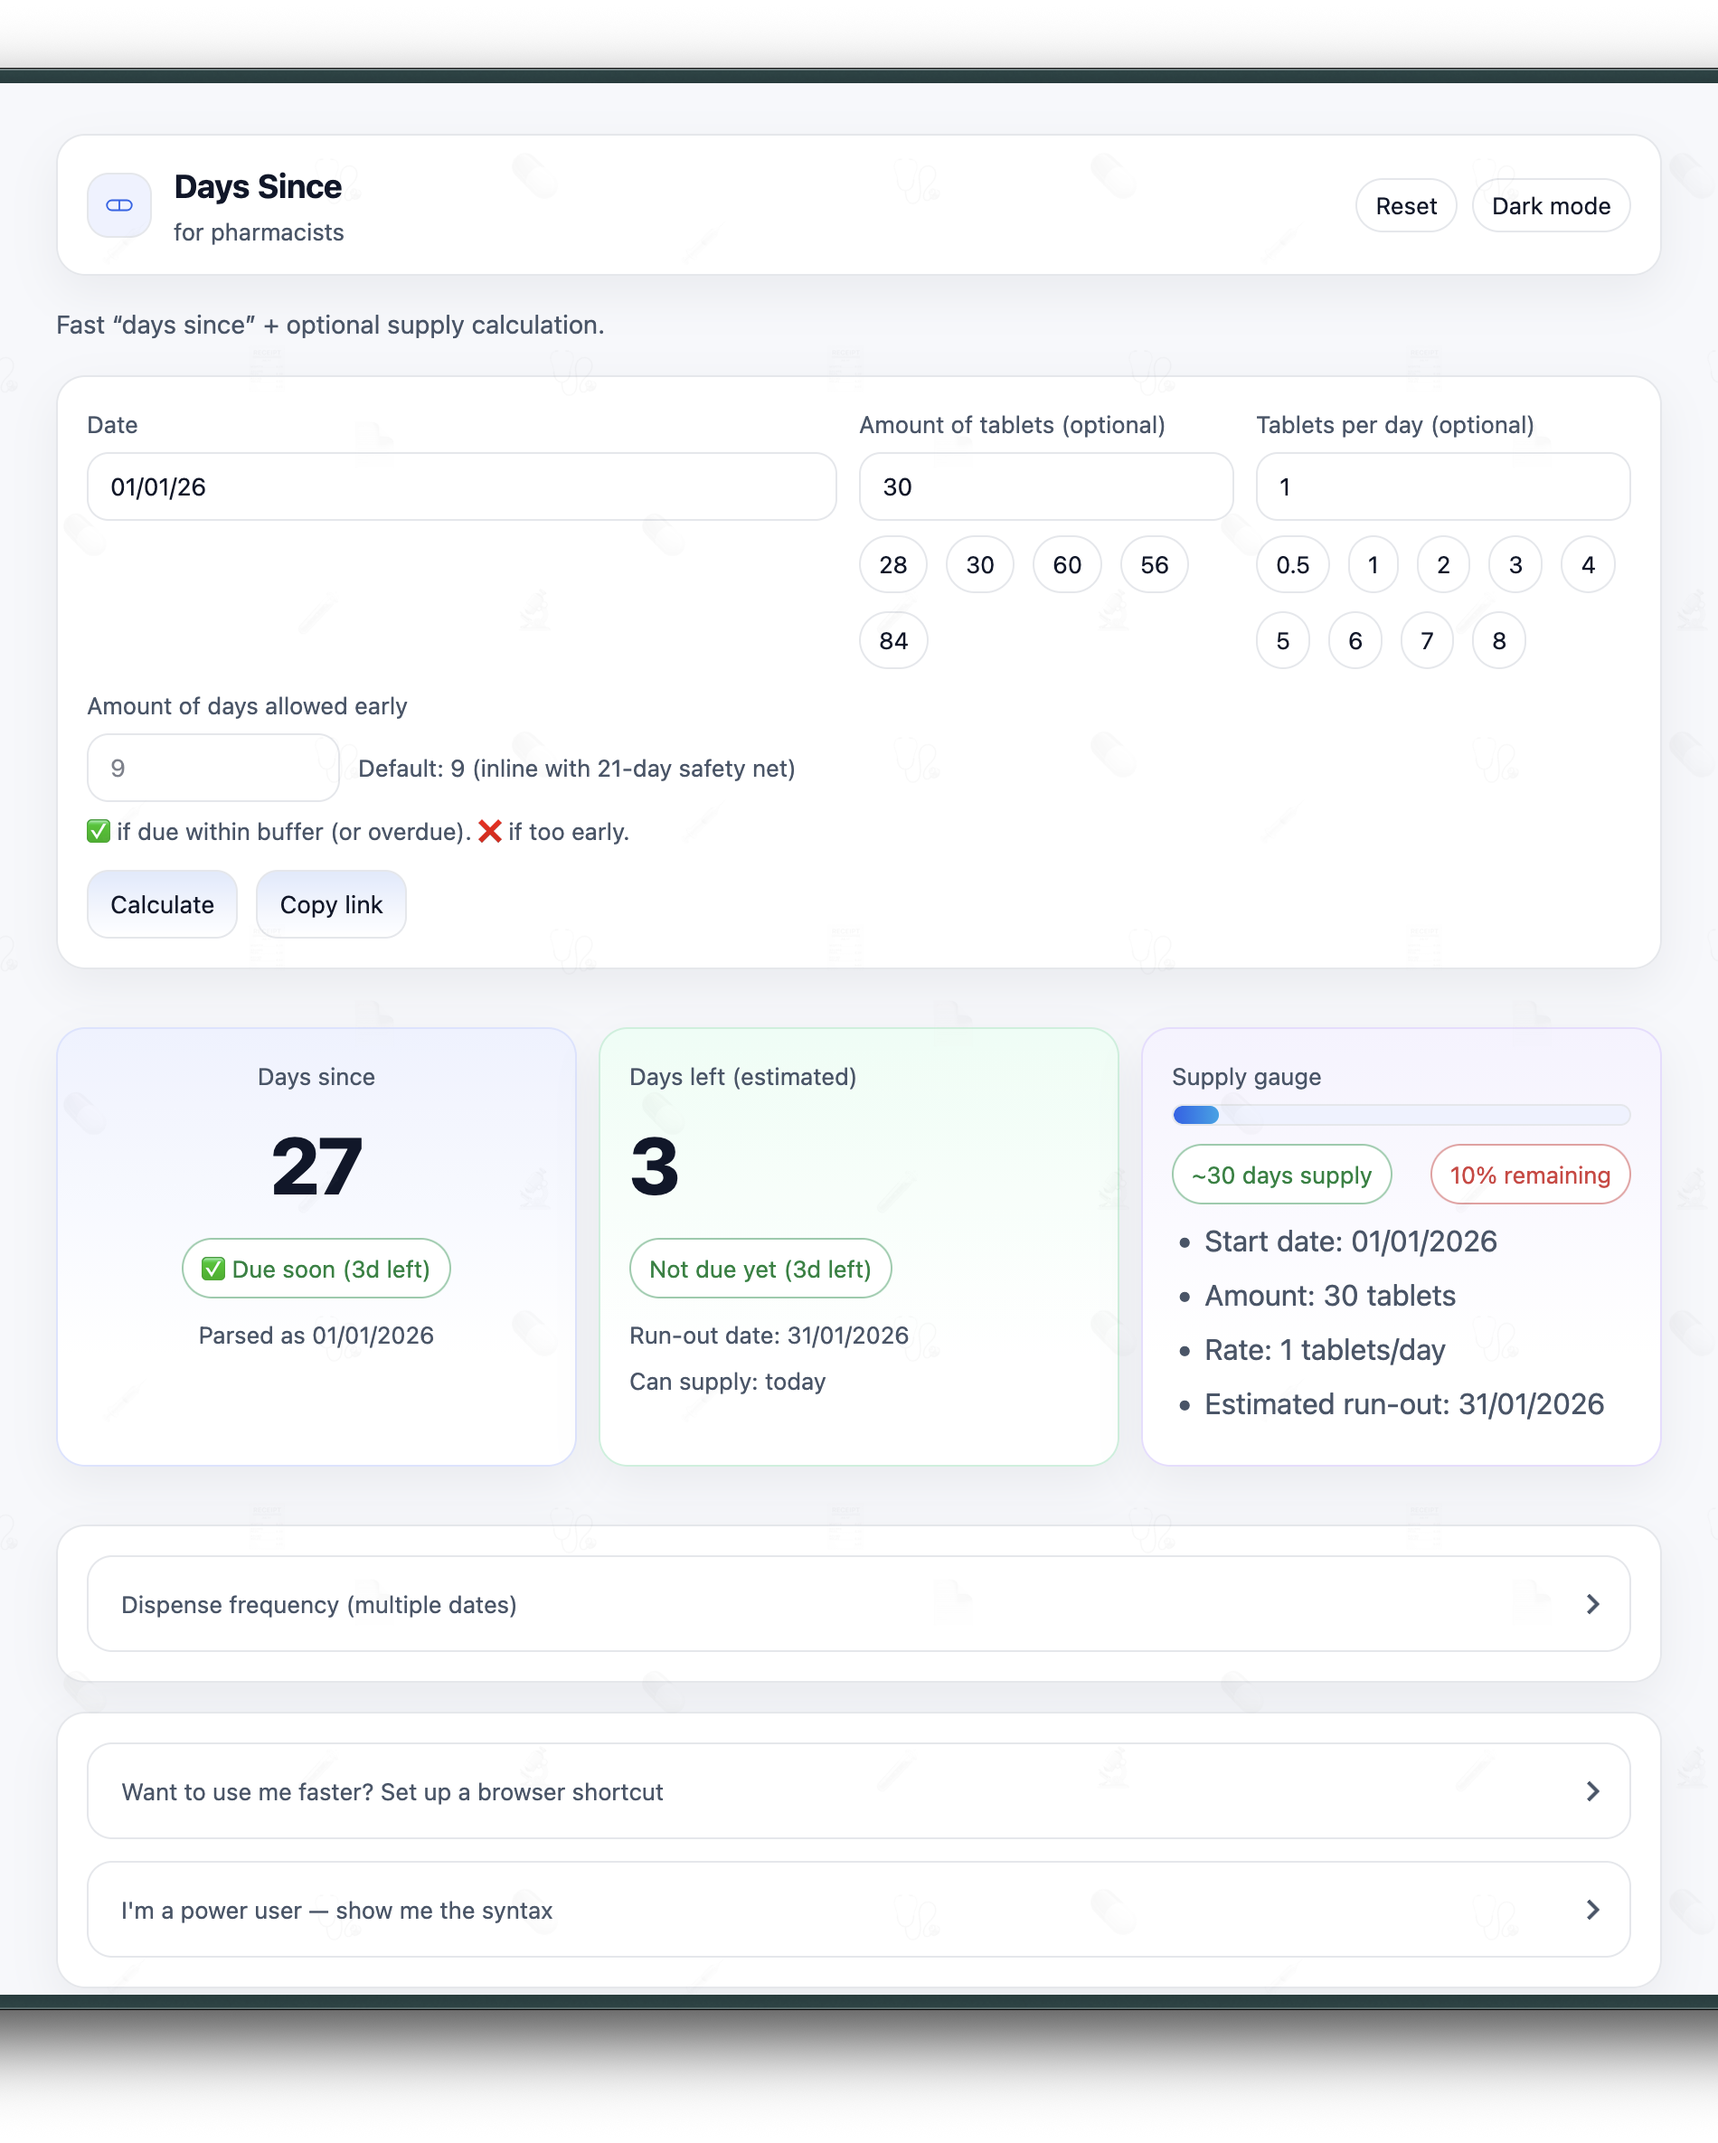
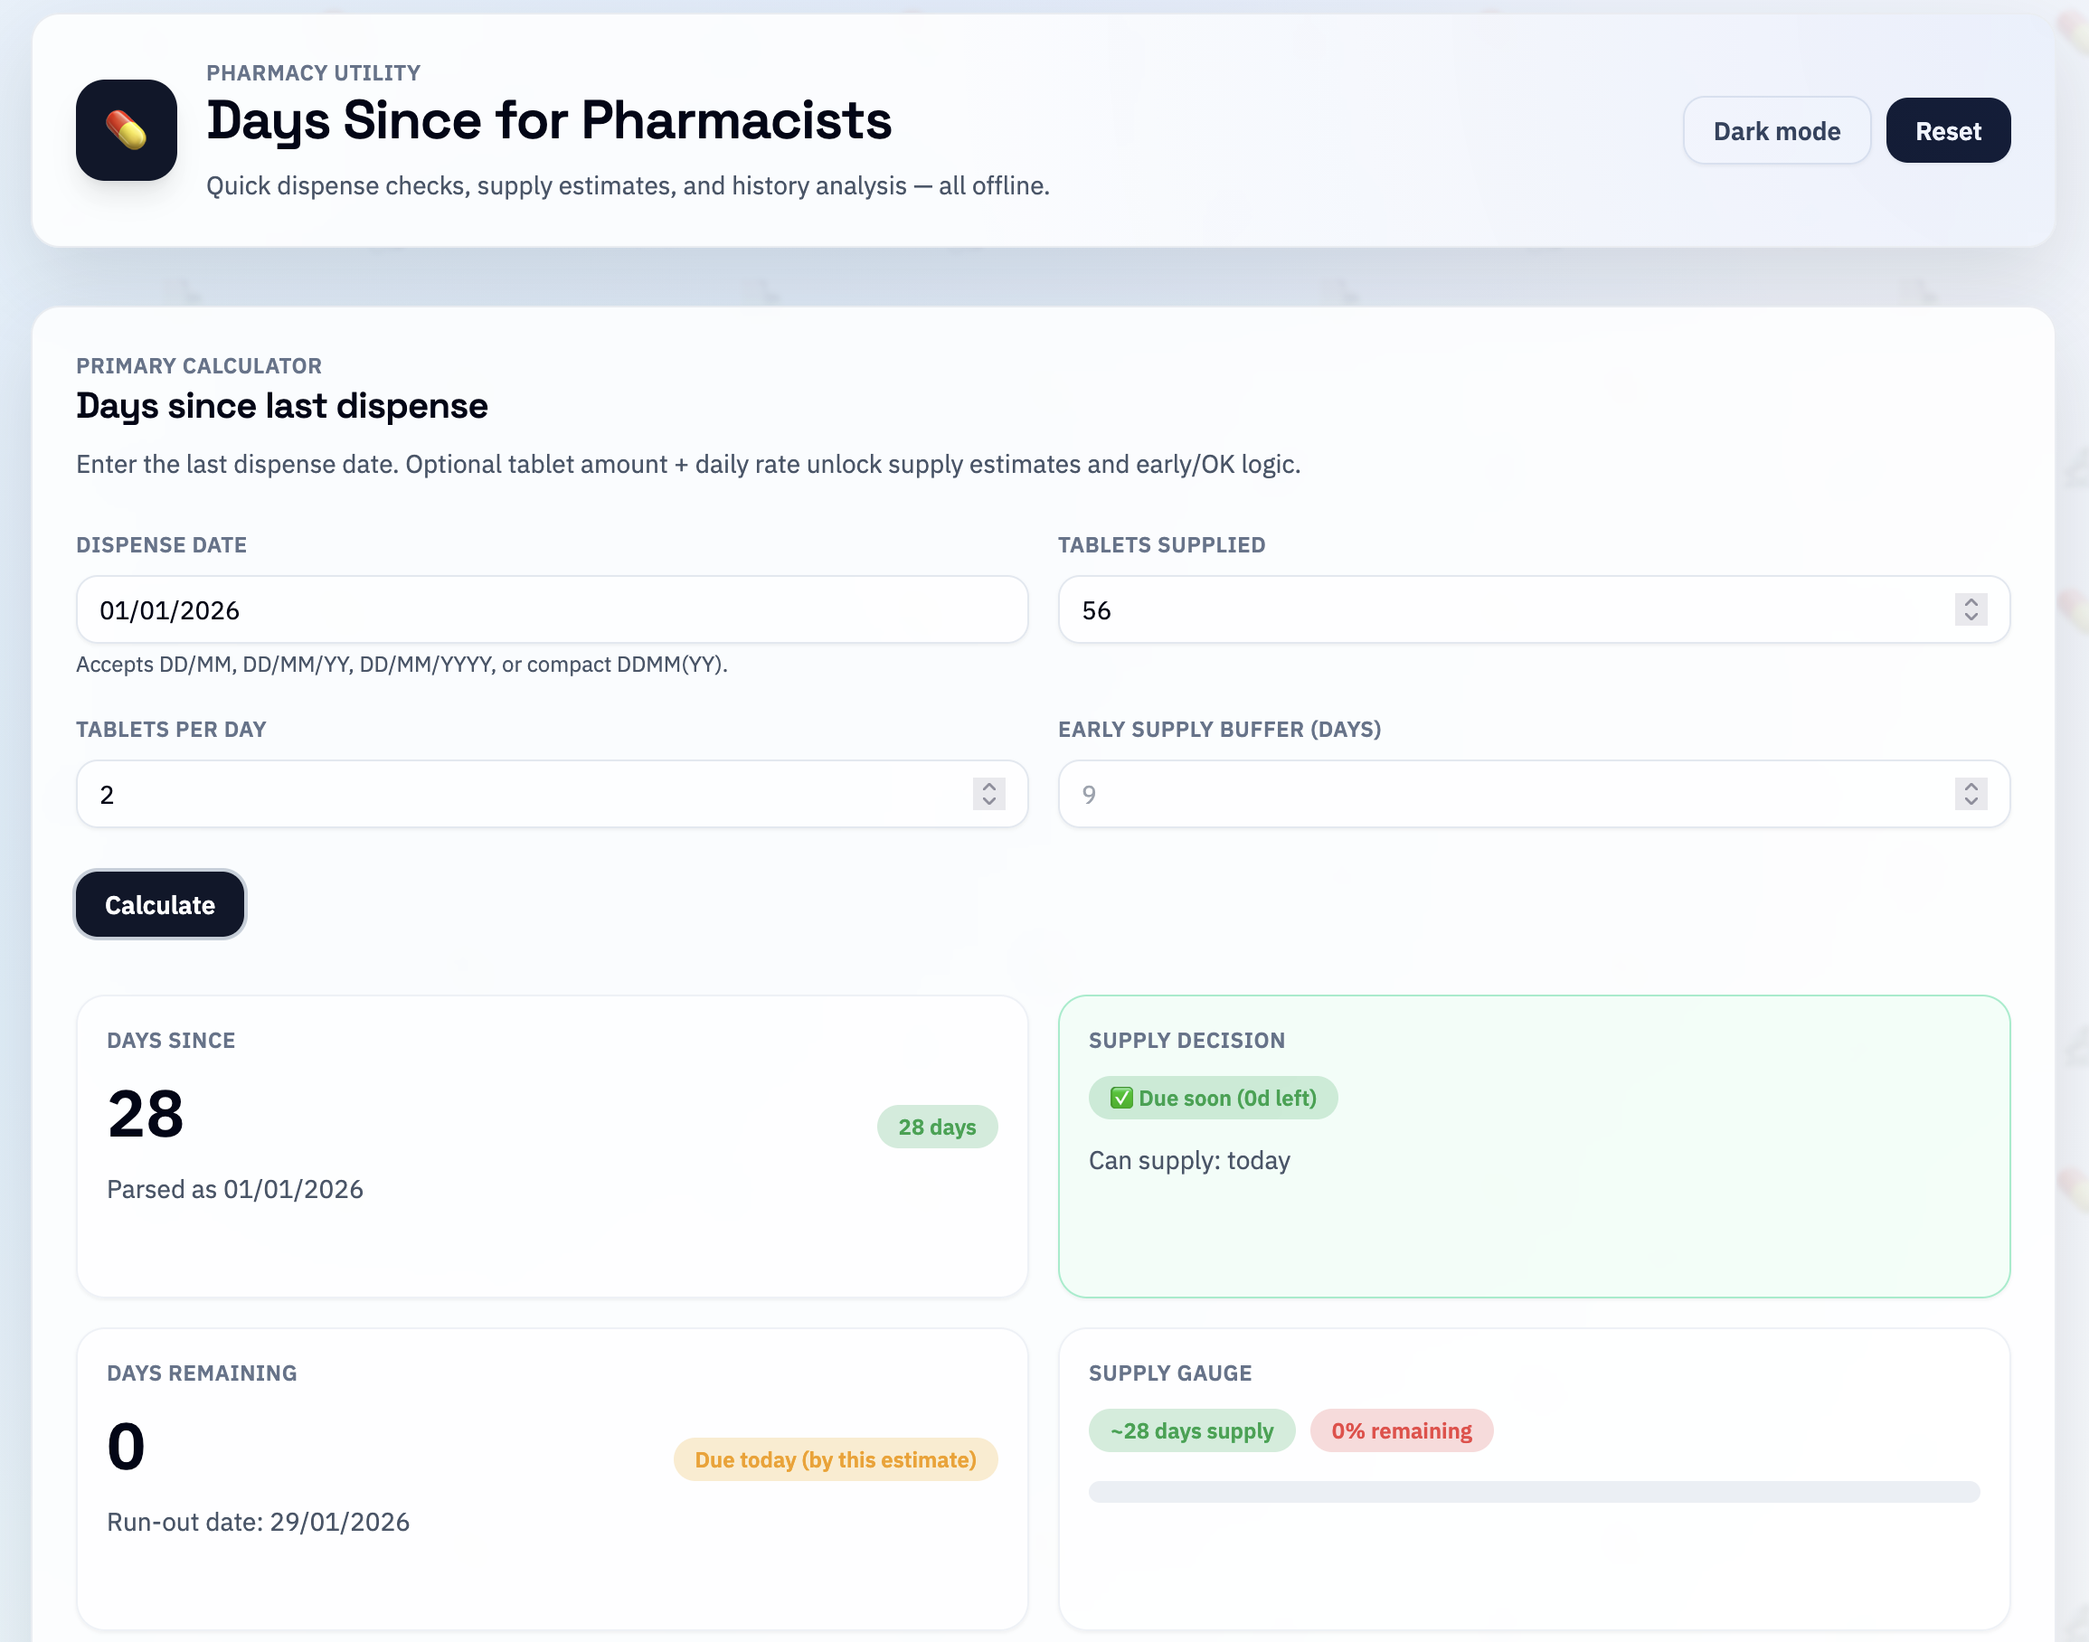
Refresh results layout and README

diff --git a/index.html b/index.html
@@ -101,8 +101,11 @@
             <p id="status" class="muted text-sm" role="status" aria-live="polite"></p>
           </div>
 
-          <div id="output" class="mt-8 space-y-6" hidden aria-live="polite">
-            <div class="grid auto-rows-fr items-stretch gap-4 sm:grid-cols-[1.1fr_0.9fr]">
+          <div id="output" class="mt-8" hidden aria-live="polite">
+            <div
+              id="resultGrid"
+              class="result-grid grid auto-rows-fr items-stretch gap-4 sm:grid-cols-2"
+            >
               <div class="result-card">
                 <p class="label">Days since</p>
                 <div class="mt-3 flex items-end justify-between gap-3">
@@ -114,7 +117,7 @@
 
               <div
                 id="decisionCard"
-                class="decision-tone-warn h-full rounded-2xl border border-slate-200/60 bg-white/70 p-4 shadow-sm transition-colors dark:border-slate-700/60 dark:bg-slate-950/50"
+                class="result-card decision-tone-warn transition-colors"
               >
                 <p class="label">Supply decision</p>
                 <div class="mt-3 flex flex-wrap items-center gap-2">
@@ -124,45 +127,41 @@
                   Add tablets/day to calculate “can supply on” date.
                 </p>
               </div>
-            </div>
 
-            <div
-              id="medSection"
-              class="grid auto-rows-fr items-stretch gap-4 sm:grid-cols-2"
-              hidden
-            >
-              <div class="result-card">
-                <p class="label">Days remaining</p>
-                <div class="mt-3 flex items-end justify-between gap-3">
-                  <span id="daysLeftValue" class="text-4xl font-semibold">0</span>
-                  <span id="duePill" class="pill pill-good">Not due yet</span>
+              <div id="medSection" class="contents" hidden>
+                <div class="result-card">
+                  <p class="label">Days remaining</p>
+                  <div class="mt-3 flex items-end justify-between gap-3">
+                    <span id="daysLeftValue" class="text-4xl font-semibold">0</span>
+                    <span id="duePill" class="pill pill-good">Not due yet</span>
+                  </div>
+                  <p id="runoutValue" class="muted mt-3 text-sm">Run-out date:</p>
                 </div>
-                <p id="runoutValue" class="muted mt-3 text-sm">Run-out date:</p>
-              </div>
-              <div class="result-card">
-                <p class="label">Supply gauge</p>
-                <div class="mt-3 flex flex-wrap items-center gap-2">
-                  <span id="supplyPill" class="pill pill-good">~0 days supply</span>
-                  <span id="percentPill" class="pill pill-warn">0% remaining</span>
-                </div>
-                <div
-                  class="mt-4 h-3 overflow-hidden rounded-full bg-slate-200/70 dark:bg-slate-800"
-                >
+                <div class="result-card">
+                  <p class="label">Supply gauge</p>
+                  <div class="mt-3 flex flex-wrap items-center gap-2">
+                    <span id="supplyPill" class="pill pill-good">~0 days supply</span>
+                    <span id="percentPill" class="pill pill-warn">0% remaining</span>
+                  </div>
                   <div
-                    id="percentBar"
-                    class="h-full rounded-full bg-slate-900 dark:bg-slate-100"
-                    style="width: 0%"
-                  ></div>
+                    class="mt-4 h-3 overflow-hidden rounded-full bg-slate-200/70 dark:bg-slate-800"
+                  >
+                    <div
+                      id="percentBar"
+                      class="h-full rounded-full bg-slate-900 dark:bg-slate-100"
+                      style="width: 0%"
+                    ></div>
+                  </div>
                 </div>
               </div>
-            </div>
 
-            <div id="gaugeSection" class="result-card" hidden>
-              <p class="label">Estimate details</p>
-              <ul
-                id="medDetails"
-                class="mt-3 space-y-2 text-sm text-slate-700 dark:text-slate-200"
-              ></ul>
+              <div id="gaugeSection" class="result-card sm:col-span-2" hidden>
+                <p class="label">Estimate details</p>
+                <ul
+                  id="medDetails"
+                  class="mt-3 space-y-2 text-sm text-slate-700 dark:text-slate-200"
+                ></ul>
+              </div>
             </div>
           </div>
         </section>

diff --git a/src/main.ts b/src/main.ts
@@ -3,7 +3,6 @@ import './style.css';
 import {
   computeCanSupplyDate,
   computeSupplyMetrics,
-  pickRecencyStatus,
   supplyDecision,
 } from './lib/calc';
 import { daysBetween, formatDate, parseFlexibleDate, parseManyDates, startOfDay } from './lib/date';
@@ -31,6 +30,7 @@ const daysPill = byId<HTMLSpanElement>('daysPill');
 const flagPill = byId<HTMLSpanElement>('flagPill');
 const canSupplyEl = byId<HTMLParagraphElement>('canSupply');
 const decisionCard = byId<HTMLDivElement>('decisionCard');
+const resultGrid = byId<HTMLDivElement>('resultGrid');
 
 const medSection = byId<HTMLDivElement>('medSection');
 const gaugeSection = byId<HTMLDivElement>('gaugeSection');
@@ -58,6 +58,7 @@ const themeToggle = byId<HTMLButtonElement>('themeToggle');
 const setHidden = (el: HTMLElement | null, hidden: boolean) => {
   if (!el) return;
   el.hidden = hidden;
+  el.classList.toggle('hidden', hidden);
 };
 
 const setPill = (el: HTMLElement | null, kind: 'good' | 'warn' | 'bad', text: string) => {
@@ -223,6 +224,8 @@ const computeAndRender = () => {
   const buffer = parseNumber(bufferInput.value) ?? DEFAULT_BUFFER;
 
   if (amount != null && perDay != null && perDay > 0 && medSection && gaugeSection) {
+    setHidden(decisionCard, false);
+    resultGrid?.classList.remove('single-card');
     const metrics = computeSupplyMetrics({ startDate, amount, perDay, today });
 
     if (daysLeftValue && runoutValue) {
@@ -274,12 +277,8 @@ const computeAndRender = () => {
     setHidden(medSection, false);
     setHidden(gaugeSection, false);
   } else {
-    const recency = pickRecencyStatus(daysSince);
-    setPill(flagPill, recency.kind, recency.text);
-    setDecisionCardTone(recency.kind);
-    if (canSupplyEl) {
-      canSupplyEl.textContent = 'Add tablets/day to calculate “can supply on” date.';
-    }
+    setHidden(decisionCard, true);
+    resultGrid?.classList.add('single-card');
     setHidden(medSection, true);
     setHidden(gaugeSection, true);
   }

diff --git a/src/style.css b/src/style.css
@@ -135,6 +135,10 @@
   .result-card {
     @apply h-full min-h-[168px] rounded-2xl border border-slate-200/60 bg-white/70 p-4 shadow-sm dark:border-slate-700/60 dark:bg-slate-950/50;
   }
+
+  .result-grid.single-card {
+    grid-template-columns: 1fr;
+  }
 }
 
 @layer utilities {

diff --git a/README.md b/README.md
@@ -18,12 +18,13 @@ Fast, simple, and private. **Days Since for Pharmacists** is a lightweight web t
 - Calculates **days since** a date
 - Estimates **days of medication supply** if you enter amount + tablets per day
 - Flags **OK to supply vs too early** based on an early‑supply buffer
-- **Dispense frequency** view: paste multiple dispense dates to see average gap + a colour timeline (green OK / red early)
+- Shows **“can supply on”** date when tablets/day is provided
+- **Dispense history timeline**: paste multiple dispense dates to see average gap + a colour timeline (green OK / red early)
 - Optional **tablet ledger** projection (net balance at last date, plus today if toggled)
 
-## Dispense frequency + timeline view (multiple dates)
+## Dispense history timeline (multiple dates)
 
-Open **“Dispense frequency + ledger”** and paste dispense dates.
+Open **“Dispense history timeline”** and paste dispense dates.
 
 ![Timeline mode screenshot](assets/daySinceTimeline.png)
 
